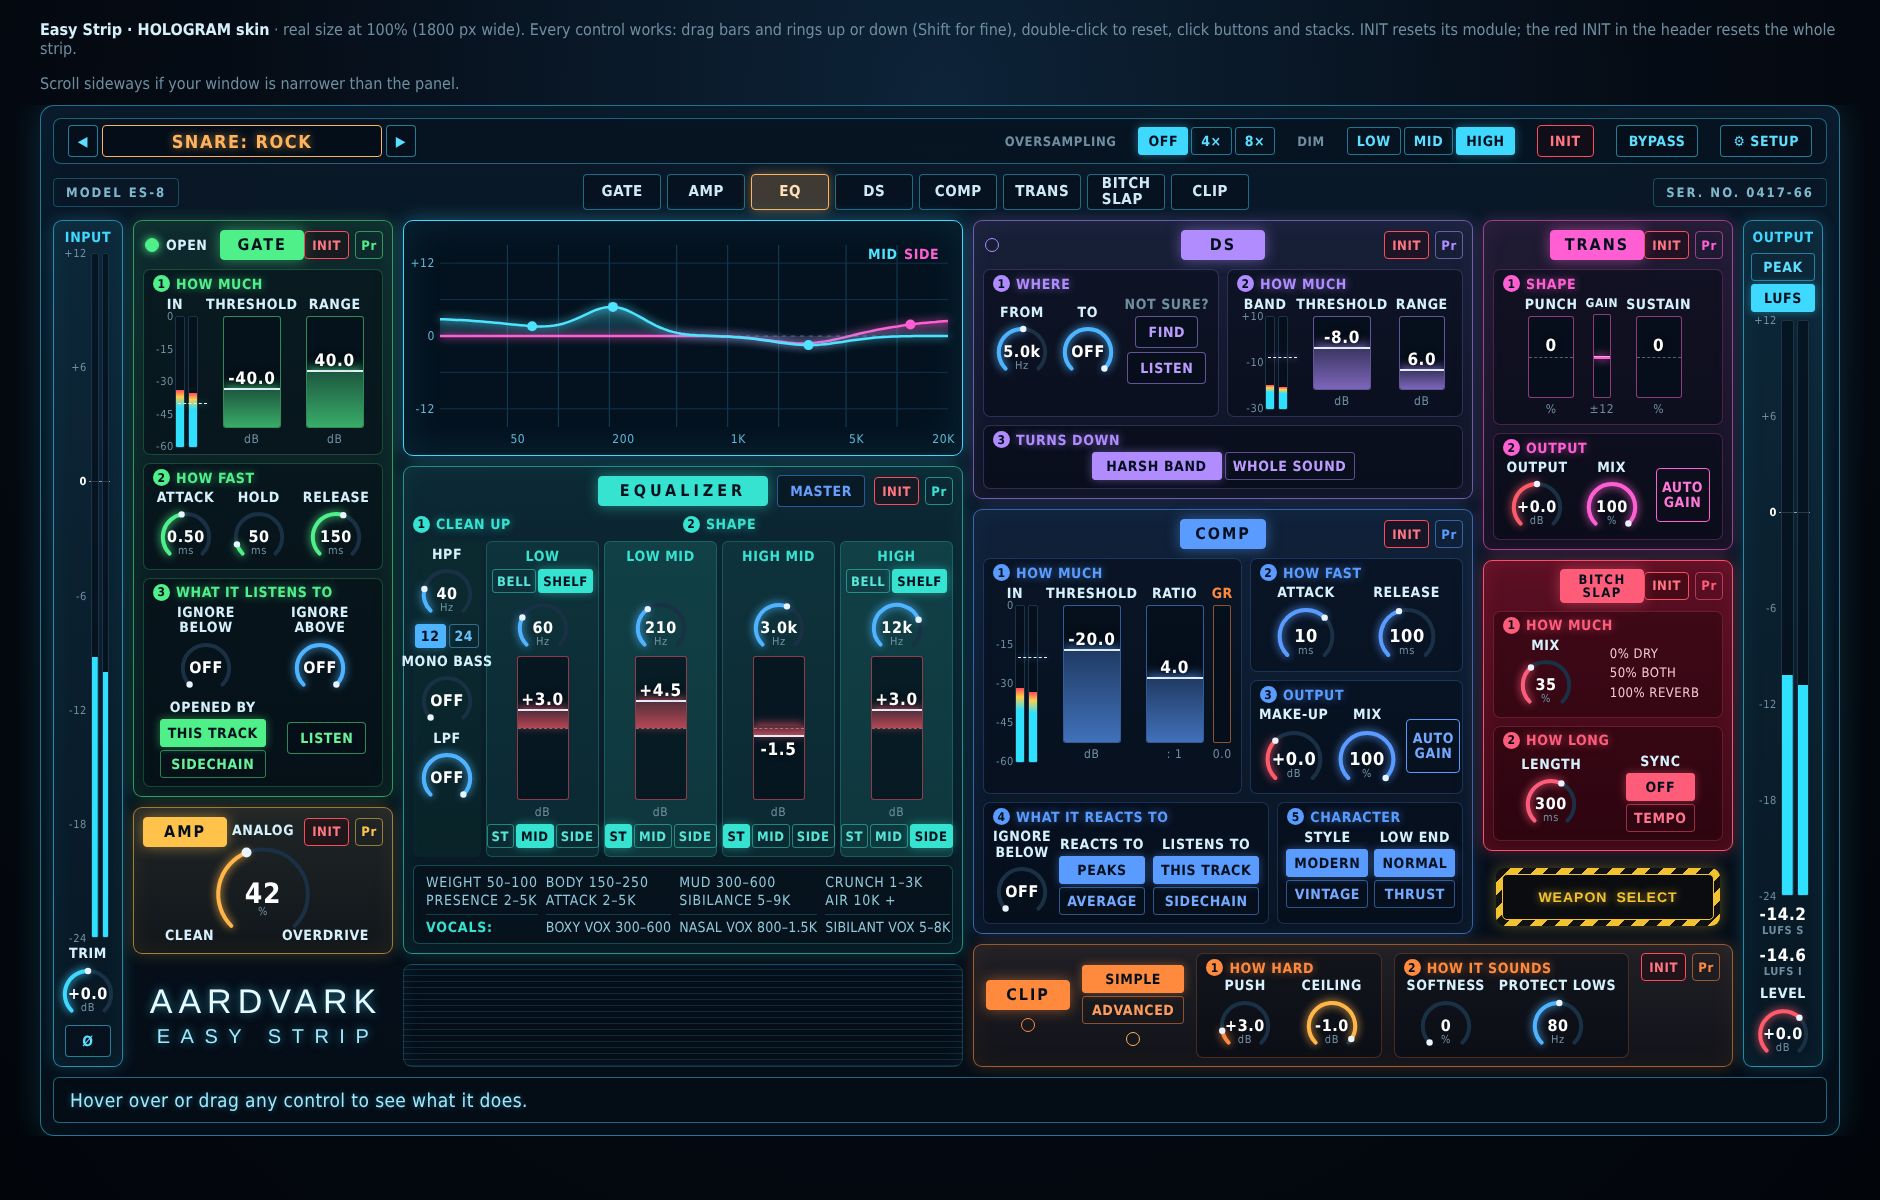
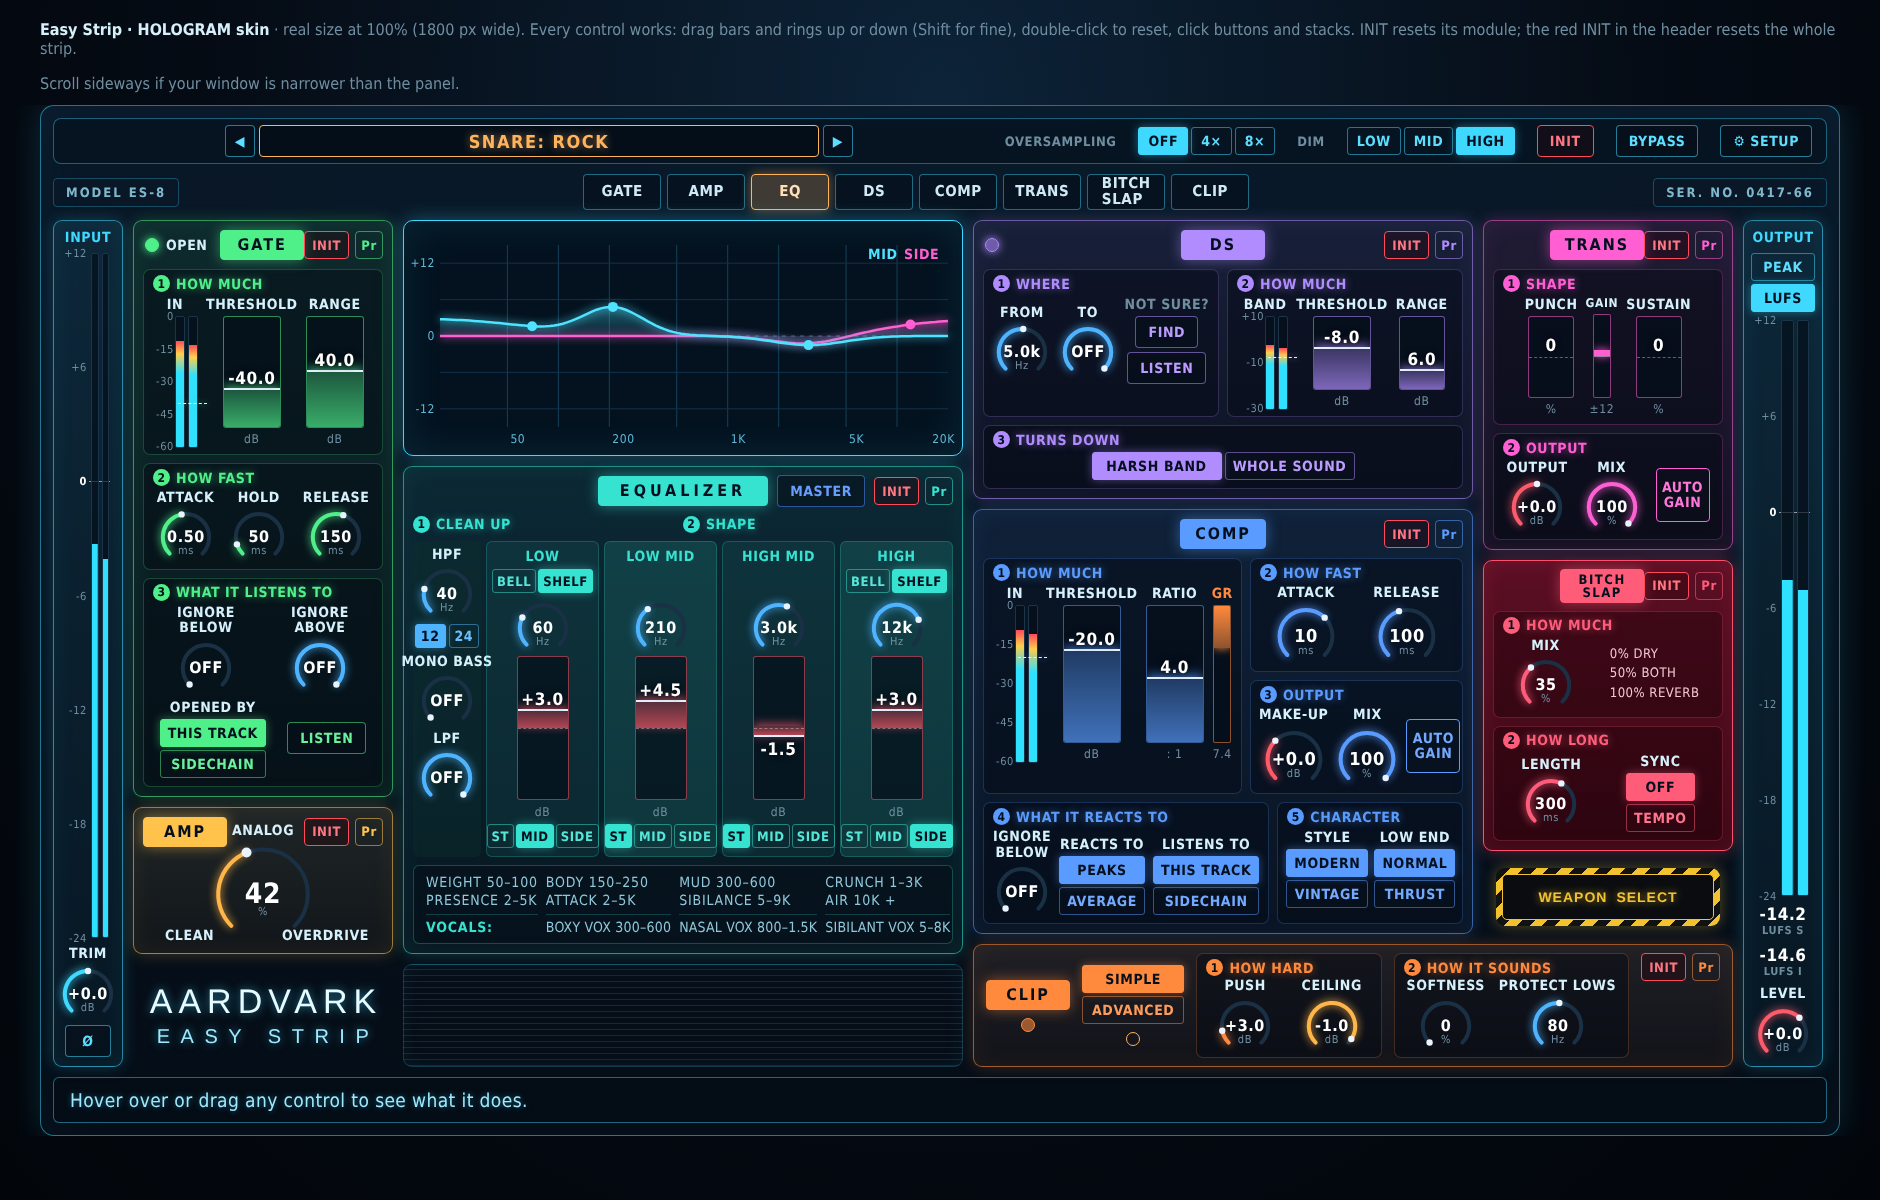
DevTools: preset window back in place, twice as wide (HOLOGRAM) [skip ci]
Claude-Session: https://claude.ai/code/session_01KRn7UbAFWVf9LHLqhN9U6j

diff --git a/DevTools/Look/Strip/strip_wireframe_hologram_digital.html b/DevTools/Look/Strip/strip_wireframe_hologram_digital.html
@@ -23,7 +23,7 @@ body{margin:0;background:radial-gradient(ellipse at 50% 8%,#0d2338 0%,#050b14 55
 .bay .title{grid-column:1;grid-row:1;display:flex;flex-direction:column;align-items:center;justify-content:center;gap:6px}
 .title div:first-child{font-size:34px;letter-spacing:6px;padding-left:6px}.title div:last-child{font-size:20px;letter-spacing:10.5px;padding-left:10px;color:#9fe9ff}
 .preset{display:flex;gap:4px;align-items:center}
-.preset .win{width:280px;height:32px;box-sizing:border-box;border:1px solid var(--sel);border-radius:4px;display:flex;align-items:center;justify-content:center;color:var(--sel);font-weight:600;font-size:18px;letter-spacing:1.5px;text-shadow:0 0 8px rgba(255,179,92,.55);background:rgba(4,12,22,.7)}
+.preset .win{width:560px;height:32px;box-sizing:border-box;border:1px solid var(--sel);border-radius:4px;display:flex;align-items:center;justify-content:center;color:var(--sel);font-weight:600;font-size:18px;letter-spacing:1.5px;text-shadow:0 0 8px rgba(255,179,92,.55);background:rgba(4,12,22,.7)}
 .grow{flex:1}
 .lab{color:var(--dim);font-size:13px;font-weight:600}
 .btn{height:32px;padding:0 12px;box-sizing:border-box;border:1px solid color-mix(in srgb,var(--t,var(--cyan)) 55%,transparent);border-radius:4px;color:color-mix(in srgb,var(--t,var(--cyan)) 85%,#fff);display:inline-flex;align-items:center;justify-content:center;font-weight:600;font-size:14px;cursor:pointer;white-space:nowrap;background:rgba(4,12,22,.5)}
@@ -159,6 +159,7 @@ body{margin:0;background:radial-gradient(ellipse at 50% 8%,#0d2338 0%,#050b14 55
 <div class="frame"><div class="panel" id="panel">
 
 <div class="top">
+  <div style="width:135px;flex:none" aria-hidden="true"></div>
   <div class="preset"><div class="btn" style="width:30px;padding:0">◀</div><div class="win">SNARE: ROCK</div><div class="btn" style="width:30px;padding:0">▶</div></div>
   <div class="grow"></div>
   <span class="lab">OVERSAMPLING</span><div class="seg tgl"><span class="on">OFF</span><span>4×</span><span>8×</span></div>
